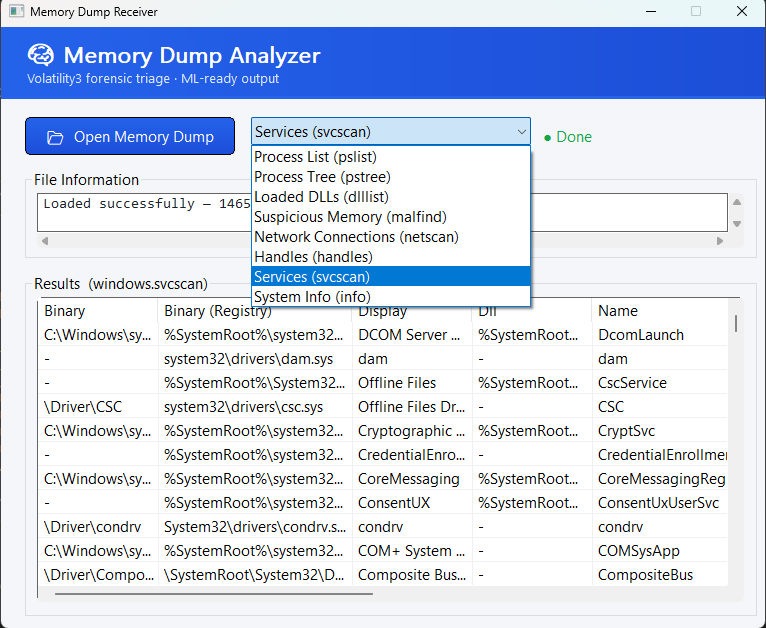
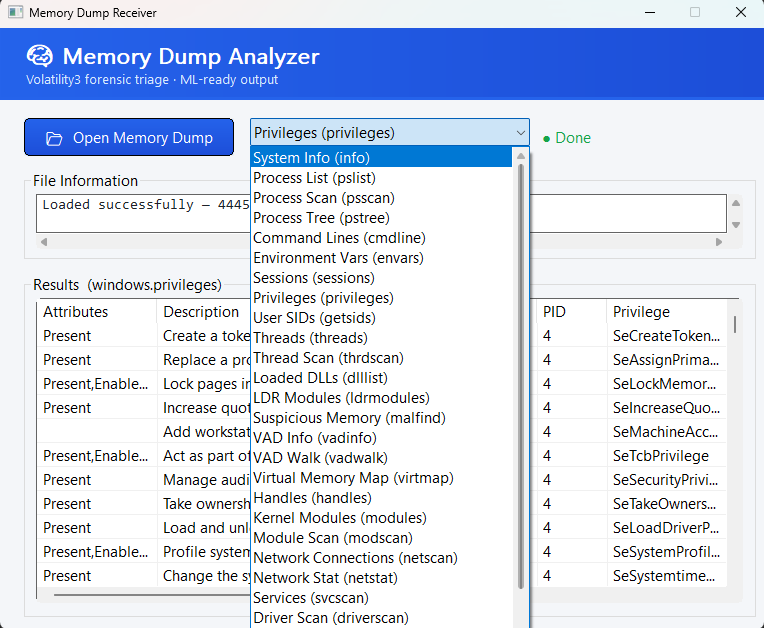
Add Some Volatility Plugins

diff --git a/Memory/main.cpp b/Memory/main.cpp
@@ -37,14 +37,52 @@ struct PluginOption
 };
 
 const PluginOption PLUGIN_OPTIONS[] = {
-    { L"Process List (pslist)",        L"windows.pslist"   },
-    { L"Process Tree (pstree)",        L"windows.pstree"   },
-    { L"Loaded DLLs (dlllist)",        L"windows.dlllist"  },
-    { L"Suspicious Memory (malfind)",  L"windows.malfind"  },
-    { L"Network Connections (netscan)",L"windows.netscan"  },
-    { L"Handles (handles)",            L"windows.handles"  },
-    { L"Services (svcscan)",           L"windows.svcscan"  },
-    { L"System Info (info)",           L"windows.info"     },
+    { L"System Info (info)",              L"windows.info"                  },
+    { L"Process List (pslist)",           L"windows.pslist"                },
+    { L"Process Scan (psscan)",           L"windows.psscan"                },
+    { L"Process Tree (pstree)",           L"windows.pstree"                },
+    { L"Command Lines (cmdline)",         L"windows.cmdline"               },
+    { L"Environment Vars (envars)",       L"windows.envars"                },
+    { L"Sessions (sessions)",             L"windows.sessions"              },
+    { L"Privileges (privileges)",         L"windows.privileges"            },
+    { L"User SIDs (getsids)",             L"windows.getsids"               },
+    { L"Threads (threads)",               L"windows.threads"               },
+    { L"Thread Scan (thrdscan)",          L"windows.thrdscan"              },
+
+    { L"Loaded DLLs (dlllist)",           L"windows.dlllist"               },
+    { L"LDR Modules (ldrmodules)",        L"windows.ldrmodules"            },
+    { L"Suspicious Memory (malfind)",     L"windows.malfind"               },
+    { L"VAD Info (vadinfo)",              L"windows.vadinfo"               },
+    { L"VAD Walk (vadwalk)",              L"windows.vadwalk"               },
+    { L"Virtual Memory Map (virtmap)",    L"windows.virtmap"               },
+    { L"Handles (handles)",               L"windows.handles"               },
+    { L"Kernel Modules (modules)",        L"windows.modules"               },
+    { L"Module Scan (modscan)",           L"windows.modscan"               },
+
+    { L"Network Connections (netscan)",   L"windows.netscan"               },
+    { L"Network Stat (netstat)",          L"windows.netstat"               },
+
+    { L"Services (svcscan)",              L"windows.svcscan"               },
+    { L"Driver Scan (driverscan)",        L"windows.driverscan"            },
+    { L"Device Tree (devicetree)",        L"windows.devicetree"            },
+    { L"Callbacks (callbacks)",           L"windows.callbacks"             },
+    { L"Unloaded Modules (unloadedmodules)", L"windows.unloadedmodules"    },
+
+    { L"File Scan (filescan)",            L"windows.filescan"              },
+    { L"Mutant Scan (mutantscan)",        L"windows.mutantscan"            },
+    { L"Symlink Scan (symlinkscan)",      L"windows.symlinkscan"           },
+    { L"Big Pools (bigpools)",            L"windows.bigpools"              },
+
+    { L"Registry Hives (hivelist)",       L"windows.registry.hivelist"     },
+    { L"Registry Certificates",           L"windows.registry.certificates" },
+    { L"UserAssist (userassist)",         L"windows.registry.userassist"   },
+
+    { L"Shimcache Memory (shimcachemem)", L"windows.shimcachemem"          },
+    { L"Skeleton Key Check",              L"windows.skeleton_key_check"    },
+    { L"Timeliner (timeliner)",           L"windows.timeliner"             },
+    { L"Version Info (verinfo)",          L"windows.verinfo"               },
+    { L"Statistics (statistics)",         L"windows.statistics"            },
+    { L"Crash Info (crashinfo)",          L"windows.crashinfo"             },
 };
 const int PLUGIN_OPTIONS_COUNT = sizeof(PLUGIN_OPTIONS) / sizeof(PLUGIN_OPTIONS[0]);
 
@@ -584,7 +622,7 @@ LRESULT CALLBACK WindowProc(
             WS_VISIBLE | WS_CHILD | WS_TABSTOP |
             CBS_DROPDOWNLIST | WS_VSCROLL,
             250, 90,
-            280, 200,
+            280, 450,
             hwnd,
             (HMENU)ID_COMBO_PLUGIN,
             GetModuleHandleW(nullptr),
